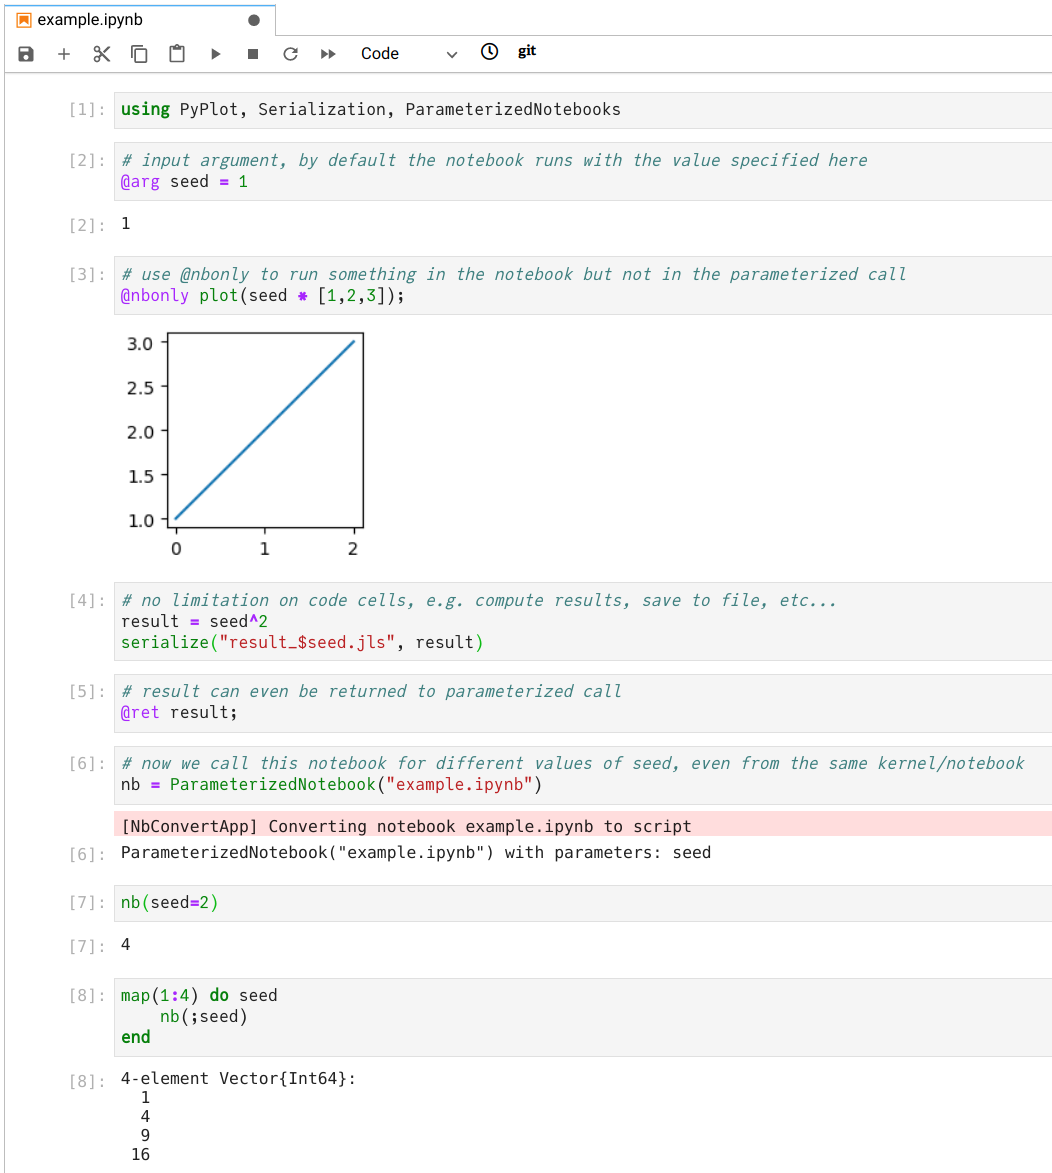
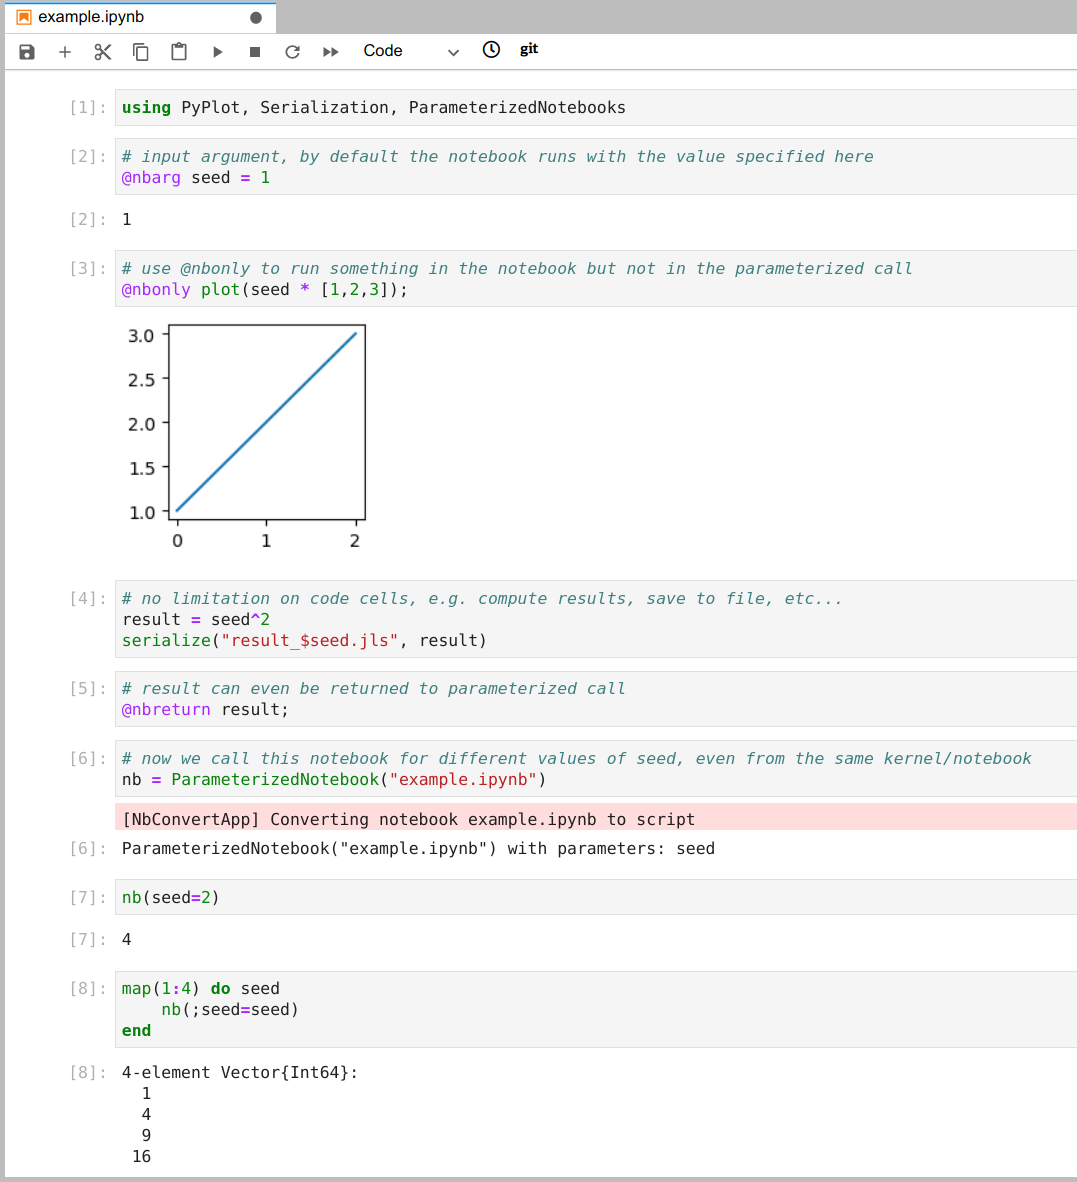
regularize macro names

diff --git a/README.md b/README.md
@@ -24,16 +24,16 @@ Best demonstrated with an example:
 
 ![](examples/example.png)
 
-There are no limitations whatsoever on what the notebook contains or how complex it is, only that the arguments which will be parameterized over are marked with `@arg name = val`. The `@arg` macro does nothing special when running the notebook normally in Jupyter, so above `seed` is set to `1` and execution proceeds as usual. 
+There are no limitations whatsoever on what the notebook contains or how complex it is, only that the arguments which will be parameterized over are marked with `@nbarg name = val`. The `@nbarg` macro does nothing special when running the notebook normally in Jupyter, so above `seed` is set to `1` and execution proceeds as usual. 
 
 You can mark code which should only run in Jupyter but will otherwise be skipped in the parameterized call (e.g. visualization) with `@nbonly`. 
 
-You can return a value from the notebook with the `@ret` macro. `@ret` is also useful to return the parameterized call somewhere before the end of your notebook. Code cells below this are not run and can contain other code, even triggering the parameterized call itself from the same kernel/notebook, as in the above example. 
+You can return a value from the notebook with the `@nbreturn` macro. `@nbreturn` is also useful to return the parameterized call somewhere before the end of your notebook. Code cells below this are not run and can contain other code, even triggering the parameterized call itself from the same kernel/notebook, as in the above example. 
 
 ## Details
 
-The package is extremely simple and just reads the notebook file from disk and repeatedly `eval`'s each cell into `Main` (just as if you had run the cells, thus avoiding any scoping issues), replacing `@arg` expressions with the appropriate value, skipping `@nbonly` expressions, and returning once it hits a `@ret`.
+The package is extremely simple and just reads the notebook file from disk and repeatedly `eval`'s each cell into `Main` (just as if you had run the cells, thus avoiding any scoping issues), replacing `@nbarg` expressions with the appropriate value, skipping `@nbonly` expressions, and returning once it hits a `@nbreturn`.
 
 ## Related
 
-Similar to [takluyver/nbparameterise](https://github.com/takluyver/nbparameterise), [tritemio/nbrun](https://github.com/tritemio/nbrun), and [nteract/papermill](https://github.com/nteract/papermill), but more powerful because arbitrary objects, not just string representations, can be passed as parameters and returned from the notebooks. Also, much simpler to use and only requires decorating a few lines with macros. However, lacks the ability to generate "reports" with outputs filled in. 
+Similar to [takluyver/nbparameterise](https://github.com/takluyver/nbparameterise), [tritemio/nbrun](https://github.com/tritemio/nbrun), and [nteract/papermill](https://github.com/nteract/papermill), but more powerful because arbitrary objects, not just string representations, can be passed as parameters and returned from the notebooks. Also, much simpler to use and only requires decorating a few lines with macros. However, lacks the ability to generate "reports" with outputs filled in. Also similar to [stevengj/NBInclude.jl](https://github.com/stevengj/NBInclude.jl) which I discovered after making this, which has a much cleaner code-loading, but doesn't let you parameterize. 
